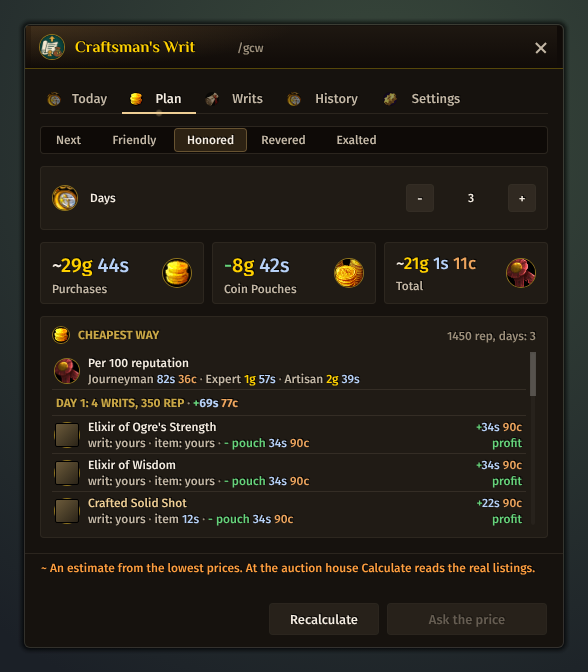
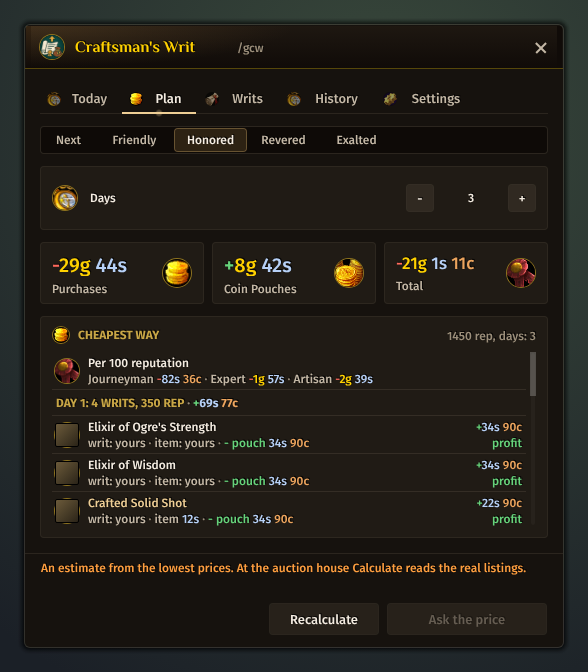
Craftsman's Writ: hand-in cost on Today, red losses, 31 days; no ~ on prices
- Today shows what handing in each held writ costs (item less its pouch), with
  a sum per group and a tooltip line; names are prefetched at login.
- Gains are green +, losses red - with a 'loss' word on plan lines; the plan
  tiles read as money flows.
- Days go up to 31.
- Prices carry no ~ mark in Craftsman's Writ, Crates, Craft Profit and
  Farm Tracker (owner's decision); the notes still say when it is an estimate.

Claude-Session: https://claude.ai/code/session_01HDZ3VZV46FABzVBGzmEtaR

diff --git a/AGENTS.md b/AGENTS.md
@@ -98,7 +98,7 @@ Each one loads `Locales.lua`, `Core.lua`, `Skin.lua`, `UI.lua` (DungeonPrep adds
 - **Gulli-WorthIt**, called Worth It in the game (`/gwi`, `/gwi lead|stop|reset`; `GulliWorthItDB`: the switches in `ns.DEFAULTS` (`better`, `notify`, `showDone`), each change through `ns.SetPref`, `hidden` quest id -> true, `slots` item id -> slots read from the game, `trackerPoint`; `GulliWorthItCharDB`: `guide` (`targets` reward quest ids, `last`, `library` while it leads through the books), `told` quest id -> true, `libGoal` (the library reward quest the player made the goal) and `bookTold` (`b<quest>`/`t<quest>` -> true: a book in the bags, a library reward ready, told once)). Loads `Locales.lua`, `Tips.lua`, `Data.lua`, `Core.lua`, `Skin.lua`, `UI.lua`. It lists the quests whose reward is worth the walk and leads to them; it only reads the game and sets map pins. `Data.lua` is generated by `tools/worthit/build_data.py` from QuestieDB (through `questie.load_forever`); never edit it by hand: `D.kinds` (the kinds of reward in window order: `bag`, `ammo`, `soul`, `prof`, `rest`, each one row of `KINDS` in the generator by item class and subclass, so a new kind of lasting reward is a row there, a `KIND_<KEY>` text, an icon in `ns.KIND_ICON` and, when only one class uses it, an entry in `ns.KIND_CLASS`; a reward no item class marks, such as the Cozy Sleeping Bag (`rest`), is named by its item id in the generator's `ITEM_KINDS` and its kind tests false in `KINDS`; a kind that is no bag goes into `ns.PERKS`: it has no slots, counts as better until it is got and shows `GAIN_<KEY>` and `SHORT_<KEY>` instead of slots), `D.rewards` (`{ item, kind, quest }` from the items' `questRewards`; a reward the data does not link to its quest goes into the generator's `EXTRA` by hand, repeatable quests are left out; `tools/worthit/bagquests.py` compares the list every day (through `tools/health/forever_content.py`) with the bag quests of the BagQuests addon, pmgower/bagquests-forever: an item it offers goes into `EXTRA` with its steps, or into `tools/worthit/bagquests_seen.txt` with the reason), `D.quest` (quest -> English name, level, required level, race mask, class mask, side, giver with area and x, y, who takes it back, the spot of its work; 0, 0 is a place on no map), `D.chain` (reward quest -> its chain, first step first), `D.alt` (a step -> the quests that may stand for it, the choices of an "any one of" earlier quest, one per faction; `ns.ChainOf` puts the character's own in the chain), `D.class` (`{ quest, class mask, items }`: the class quests that give an item, from the Wowhead snapshot `tools/worthit/wowhead-classquests.json` of WoW Forever's class-specific quests (collected on a player's computer; collect it again when Forever adds class quests) joined with QuestieDB for the chain and the places; the generator keeps only `CLASS_ITEM_CLASSES` items, a quest sort of a class or one class alone (so profession quests stay out), level 60 at most, and no raid of `CLOSED_RAIDS`: a raid Forever opens leaves that set; a Forever class quest the snapshot misses goes into the generator's `CLASS_EXTRA` with the reason; a quest's side is that of its starters, or both when trainers of both sides give it), `D.books` (WoW Forever's library books: `{ quest, book item, level, { area, x, y, ... }, taker }`, every quest that a librarian or the mage trainer of `TAKERS` in the generator takes back for exactly one item; the places are the spawns of the book's world object, and `BOOK_PLACES` by hand where the data has none), `D.takers` (who takes a book back, `{ A = { name, area, x, y }, H = ... }`), `D.tiers` (the rewards for so many books handed in: `TIERS` and `TIER_ITEMS` in the generator), `D.kalimdor` and `D.names` (the English name of every item above, from QuestieDB). An item's name goes through `ns.ItemName`: the client's, else `D.names`, else `...` while it loads and `ITEM_ID` once the server refused it (`GET_ITEM_INFO_RECEIVED` with success false, `ns.failed`); `ns.Ask` asks for an item once (again after `ns.ASK_AGAIN` seconds), `ns.Prefetch` asks for every item of the data at login and when the window shows, only an item we asked for repaints the window (`ns.OnItemInfo`), and an item tooltip shows the game's only once the client has the item (`setItemTip` in `UI.lua`). A new place that shows an item goes through these, and a new list of items in the data joins `ns.Prefetch`. The data has no slot counts: `ns.Slots` reads a bag's slots once from its tooltip (`C_TooltipInfo.GetItemByID`, the line that matches the client's `CONTAINER_SLOTS`) and keeps them in `slots`; never a number by hand. `ns.Bags` is what is worn (the smallest bag of each kind, the empty bag slots), `ns.Gain` what a reward adds (over the smallest worn bag of its kind, or the whole bag into an empty slot; nil while the slots are not known, which counts as better). `ns.Rewards` gives one entry per reward quest for this character (side, race and class of every step of the chain, `ns.KIND_CLASS`; the best of the items the quest offers; the same reward behind two quests once, by the branch further on) with its `state` (`ready`, `log`, `take`, `later`, `done`) from the first step of the chain that is not done; `ns.List` groups them (now, later, done) behind the three switches and the hidden ones; `ns.ClassQuests(classId)` gives the class quests of the character's class the same way (another class, picked from the row of class icons on the tab, `ns.CLASSES`, `ns.ClassName`, `ns.ClassIcon`: its quests on the character's side, or on both sides when that class has none there, any race, each in state `other` and group `all`, ordered by the level its chain starts at; nothing of this character's log counts, and it has no Lead, Hide or Lead through all) (`class = true`, every item in `options`, no slots; the **Class quests** tab, `ns.List("class")`, which puts up to `ns.LEVEL_PICKS` open quests within `ns.LEVEL_SPAN` levels of the character on top (`ns.LevelPicks`, group `level`, also for another class) and the rest by level, and where the `better` switch does not apply; `ns.Targets(true)` and `ns.StartGuide(nil, true)` are its **Lead through all**, and `ns.Entry` finds an entry of either list); a class quest's page lists its items (`{ item }` rows of `ns.DetailRows`) and has no steps of what to do; `ns.Potential` is what the open rewards add together (the hub's line, `ns.Summary`). The guide (`ns.StartGuide(quests)` or every open reward that is better, `ns.StopGuide`, `ns.StepGuide` on quest log, bag and zone events): `ns.Stop` is where an entry sends the character now (who gives the step, the spot of its work, who takes it back), `ns.GuideRows` orders the stops (the player's zone nearest first, the same continent, the other one, then places on no map and rewards that wait for a level), the first one gets the map pin (`ns.SetPin`, the world map's waypoint and TomTom's arrow when it is loaded), and the tracker (`GulliWorthItTracker`, an `S.HudPanel` with `S.Mover`, `ns.TrackerItems`, at most `ns.TRACK_MAX` rows) shows them; it shows only while a guide leads, so it has no show switch. One guide leads at a time, whatever module it is of: a module that starts one calls the `stop` of `GulliHUD.guide` when another module owns it and sets `GulliHUD.guide = { owner, stop }` (Worth It and Dungeon Journal's Lead me do; a new guide does the same, with a test). A guide keeps the stop it leads to while that stop is still on its route, so walking nearer to another one never moves the pin back and forth, and a pin it sets says nothing in chat (the tracker shows it); a new guide does the same, with a test. A reward quest handed in is one `S.Toast` and a `Notify`; a reward that opens (a level, an earlier step) is told once per character (`ns.CheckNew`, `told`; the first look only notes what is open; the toast behind `notify`). A new state of an entry gets its icon in `STATE_ICON`, an `ST_` text and its place in `STATE_ORDER`. Under a reward's lines its page says what to do (owner's request of 2026-11-19): `Tips.lua` (`ns.TIPS`: language -> reward quest -> two to four short steps, plain text, NPC, quest and item names in English) is written by hand from the quest texts and the players' comments on Wowhead's WoW Forever pages (`tools/worthit/wowhead-comments.json`, collected on a player's computer since Wowhead refuses servers); `ns.Tips` gives the client's language, else English, and `ns.DetailRows` the page's one scrolling list (a head, the wrapped steps, the chain's head, its quests). A new reward quest gets its steps in every language in the same pull request (the test checks every reward and the same number of lines per language). `python3 tools/worthit/comments.py` names a reward without steps, a chain quest the snapshot lacks and a snapshot older than `COMMENT_DAYS`; `--urls` lists the pages to collect, `--merge <folder>` takes a new collection and prints the new comments to read, `--digest` prints every reward with its top comments. The **Library** tab (owner's request of 2026-11-21): `ns.Books` gives each book's `state` (`done` handed in, `bag` in the bags or the bank (`C_Item.GetItemCount` with the bank), `take`, `later` while the character is `ns.BOOK_EARLY` levels below the book), `ns.Library` the count handed in and each reward's state (`done`, `log`, `ready`, `wait` with the books to hand in `hand` and, less those in the bags, still to find `left`, `later`), `ns.BookList` the list in groups (in the bags, to pick up, later, handed in). Every book is a stop of the library guide (`ns.StartLibrary`, `cdb.guide.library`): `ns.LibraryRows` gives one stop per book to pick up (`ns.BookPlace`: the place in the player's zone, else on the same continent), one per taker for the books in the bags, one per reward ready to take, and `ns.GuideRows` orders them like the reward guide, except that a book above the player's level (`high`, `band` in `ns.RankRow`/`ns.RowBefore`) comes after every book at or below it, the lowest first (owner's request of 2026-11-21). A click on a reward tile of the ladder makes it the goal (`ns.SetLibGoal`, again takes it away); with a goal `ns.LibGoal` gives the books still to find (its books less those handed in and in the bags), and the guide leads only to that many, the first in its own order. Every number of the tab (a tile, the footer, **Lead through the books** through `ns.LeadCount`) counts books still to find, never the guide's hand-in stops. A new rule of that order goes into `ns.RowBefore`, with a case in the library goal test. The tracker shows at most `ns.TRACK_BOOKS` (10, owner's decision) of them in rows of two lines and counts the rest (`TR_MORE`, the second value of `ns.TrackerItems`); a guide of a few rewards keeps `ns.TRACK_MAX`. `ns.CheckBooks` tells a book that came into the bags and a reward that opened, once. A new book or reward comes from the data; a new kind of library stop gets its kind in `ns.BookStop`, a `DO_` text and a case in the library guide test. `tools/worthit/build_data.py <questiedb> --unlinked` lists the Forever bags no quest, drop or vendor gives that are not in `tools/worthit/seen.txt`; `tools/health/forever_content.py` reports them.
 - **Gulli-VendorFlip**, called Vendor Flip in the game (RU «Перекуп»; `/gvf`, `/gvf scan`; `GulliVendorFlipDB`: the settings in `ns.DEFAULTS` (`scan`, `auto`, `sell`, `sound`, `interval` seconds, one of `ns.INTERVALS` (5 seconds to 5 minutes, read through `ns.Interval`), `minGain` copper, at least `ns.MIN_GAIN` (1), `reserve` copper kept aside, `keepFree` bag slots, and the filters: `gear`, `goods`, `q0`..`q4` (`ns.Wanted`: gear is item class 2 or 4, quality 5 and up counts as 4), `maxPrice` copper per line (0 no limit), `minPct` the least gain in percent of the cost (`ns.PriceOK`)), each change through `ns.SetPref`, the two money settings set through `S.MoneyStepper` (gold, silver and copper fields, each with - and + and a typed number), `history` (purchases, newest first, at most `ns.HISTORY_MAX`: `at`, `id`, `n`, `paid`, `value`, `sold`, `who`) and `owed` (character -> item id -> count bought here and not sold yet)). At the auction house it lists lots whose vendor price is above their buyout and buys them by clicks. Its own CurseForge project. `ns.Scan` runs `ns.Interval()` seconds after the last scan ended while the auction house is open (with `scan`): a browse of the whole market cheapest first (`SendBrowseQuery`, paged up to `MAX_PAGES`), `ns.Candidates` keeps the item keys whose lowest price is under the vendor price (the results are sifted `ns.SIFT_STEP` per frame, the pages added from the `_ADDED` event's own list, at most `ns.LOAD_MAX` unknown items asked to load per scan, and a burst of `GET_ITEM_INFO_RECEIVED` and scan steps redraws once through `ns.RefreshSoon`: a full market is tens of thousands of lots, and work over all of them in one frame stops the game), and the best `ns.DetailMax(interval)` of them (fewer at a short interval, so all scans stay under `ns.SEARCHES_PER_MIN` searches a minute) are searched one at a time; an item the filters leave out is never searched, and a filter changed after a scan hides its lines at once (`ns.Shown`) (`SendSearchQuery`) for their lots: `ns.CommodityDeal` (how many units of a commodity gain, within the money, the bags and the stack size) and `ns.ItemDeals` (an item search result is one price with `quantity` items on sale, its `buyoutAmount` the price of one, and `PlaceBid` buys one: so an item line is one item (`n` 1, `left` on sale) and stays after a purchase while more are left, searched again for a new auction id (`ns.Refetch`, `line.stale` meanwhile)); the window shows the auction and vendor price of one and the gain of one click (`ns.LineTip` in the row's tooltip); `ns.Click` never bids on an item line whose price of one is not below the vendor's (`lose`); `ns.FixGroupedHistory` puts right, once, the history entries of a non-stacking item that 1.4.0 logged as the whole lot (`db.groupFix`); each answer goes into `ns.lines` at once (`publish`: the item's lines are replaced, a line found again keeps its table and its `bought`), so a deal can be bought while the scan reads the rest, and what the scan did not find again leaves when it ends; the player's own lots never count. **Scan now** on the Deals page runs `ns.Scan(true)`. The scan waits `QUIET` seconds whenever the player or another addon sends a query (`ns.OthersQuery`, hooks on the `C_AuctionHouse` Send calls; ours are flagged), and for the throttle. `ns.Deals` keeps the lines worth at least `minGain` that the money (less `reserve`) and the free slots (less `keepFree`) allow, best gain first. Buying is `ns.Click(line)` from a hardware click only, never from an event or a timer: a commodity takes two clicks (`StartCommoditiesPurchase`, then `ConfirmCommoditiesPurchase` after `COMMODITY_PRICE_UPDATED`), an item one (`PlaceBid` with its buyout); it never bids, and a quote whose total reaches the vendor value turns the line `lose` and buys nothing. A buy click holds the scan (`ns.Holding`: a purchase runs or waits for its click, lines are queued, or the last click was less than `ns.HOLD` seconds ago): it sends no search or browse page meanwhile (`scan.held`), since one query at a time reaches the auction house. A click on another line while a purchase runs queues it (`ns.queue`, `ns.QueuePos`; a second click takes it out), `ns.Top` gives the queue first, and each queued line is still bought by a click of its own; a click while the throttle is not ready queues the line with `ERR_WAIT`. A purchase is written to the history when the game confirms it (`ns.pending` by auction id, `ns.pendingC` for commodities in order), also when the confirmation comes after the wait gave up. `ns.Log` writes each purchase to `history` and `owed`; at a vendor `ns.OfferSale` offers to sell what is owed (an `S.Toast`, or at once with `sell`), and `ns.Sell` sells only those items, `SELL_STEP` per step, never a protected one; a right-click on a History row keeps an item (`ns.Keep`). `ns.History(period)` (`ns.PERIODS`) adds it up for the History tab. The window stands beside the auction house through the shared side tabs (`order` 30, after Crates and CraftProfit). A new row state gets a word or button in `ns.RowButton` (`UI.lua`), its texts and a test; a new rule for what counts as a deal goes into the plain functions above with a case in `tests/vendorflip/test.lua`, including the random market test (what loses never shows).
 - **Gulli-MyBisList**, called My BiS List in the game (`/gbis`, `/gbis reset`; `GulliMyBisListDB`: the settings in `ns.DEFAULTS` (`tooltip`, `notify`, `real`, `drop`), each change through `ns.SetPref`, and `fav` list ref -> true (the star); `GulliMyBisListCharDB`: `spec` (the spec the player picked), `main` (the list ref the tooltips, notices and the hub follow, `auto` until the player makes one main) and `told` item id -> true). Its own CurseForge project. It only reads the game. `Data.lua` is generated by `tools/bislist/build_data.py` from the wowtbc.gg snapshot `tools/bislist/wowtbc.json`, which `tools/bislist/fetch.py` (the site's `page-data.json` of each spec page) fetches in `data.yml` every week; the site may refuse a server, so `tools/health/forever_content.py` reports a snapshot older than `BIS_DAYS` (collect it on a computer). Never edit `Data.lua` by hand; the lists are wowtbc.gg's work and the window and the docs name it. `D.specs` (28: key `CLASS_SPEC`, class, role, page, simulated), `D.stages` (`L20`..`L50`, `PRE`, `REAL`; the site's level-60 list is left out), `D.slots` (17, rings and trinkets as two slots each), `D.lists[spec][stage][slot]` (at most `KEEP` 5 ids, best first; the generator splits the level lists' rings and trinkets into two slots and takes a two-hander list for `main` when the spec's first pre-raid weapon is one), `D.ench`, `D.src` (`{ kind, what, where }`, kinds `boss` with a Dungeon Journal key, `quest`, `rep`, `craft`, `pvp`, `vendor`, `fish`, `rare`, `zone`, `world`, `other`, `unknown`; a new kind gets an icon in `ns.SRC_ICON`, its texts and a case in `ns.SourceText`), `D.item[id]` (`{ slot code, quality, item level, required level, source index, faction A/H or nil, English name, type }`). A list is named by a ref: `auto` (`ns.MySpec` at `ns.AutoStage`, `REAL` at the top with `real`) or `site:<SPEC>:<STAGE>` (`ns.Ref`, `ns.ParseRef`); `ns.Resolve` drops the other faction's items (`ns.Filter`). `ns.SlotRows` compares a list with what is worn and carried (`C_Item.GetItemCount` with the bank): `bis`, `bag` (a better one carried), `rank`, `miss`, `none`, `covered` (the off hand while the list's first weapon is a two-hander; not counted), with a worn ring or trinket counted in the slot where it ranks best (`ns.PAIR`), and `top`/`topAt` (the list's first item: `worn`, `bag` (bags or bank, `ns.Carried`) or `miss`); a slot button shows that item with a dot in `ns.AT_COLOR` and the word `AT_<WHERE>` in its tooltip (owner's decision of 2026-11-21), and the card lists the slot's items, then what is worn under a line when it is not one of them (`ns.CardItems`, `sep`). `ns.Progress` counts the slots whose first item is worn. **My target** (`ns.SetTarget`) puts an item first; on a site list it goes into the own list copied from it (`ns.OwnFor`: made the first time, then main and shown); `ns.AddTo` adds through the same copy. The adder's search takes an id or an item link too (`ns.ParseId`, a Shift-click while it has the focus, `ns.OnLink`) and offers that item whatever list it is on. With `drop`, a wanted item (`ns.Wanted`: on the main list, better than what is worn there, not carried) in the loot window (`LOOT_READY`, also master loot) or a roll (`START_LOOT_ROLL`) plays a sound and shows a toast once a minute per item (`ns.CheckDrop`). The star (`ns.SetFav`) and the main list (`ns.SetMain`) are apart (owner's decision of 2026-11-21). Own lists (`db.own[n]`, ref `own:<n>`, for the whole account, in the hub's Export / import with the rest of the saved variables): `ns.CopyList` copies a site or own list (`from` keeps the site ref, `snap` its first item per slot), `ns.OwnAdd`/`ns.OwnRemove`/`ns.RenameOwn` edit it (the window has no arrows, owner's decision; `ns.OwnMove` stays for the order) (at most `ns.OWN_MAX` a slot; a copy takes `ns.COPY_MAX`), `ns.DeleteOwn` returns what `ns.RestoreOwn` needs for Undo, `ns.SiteNews` names the slots whose first site item changed since (`ns.AckNews`). An own list is never filtered by faction. Its search is `ns.Candidates`: items of `D.item` that fit the slot for the class (`ns.Fits`: `ns.ARMOR`, `ns.WEAPON`, `ns.DUAL`; a new item kind gets its rule there and a case in the test), the spec's own site items first, then the class's, then by item level. `ns.DetectSpec`: the retail specialization (`ns.SPEC_ID`), else the talent tab with most points (`ns.TABS`), else the first; the player's pick wins. The tooltip line (`ns.TipLines`, group `note`) and the notice of a better item in the bags (`ns.CheckBags`, items up to `ns.TOP`, once per item, never on the first look after login) follow the main list. A new spec or stage comes from the site through the generator, with its `SPEC_`/`STAGE_` texts in every language and a case in `tests/mybislist/test.lua`.
-- **Gulli-CraftsmansWrit**, called Craftsman's Writ in the game, Writ Runner until 1.0.0 (`/gcw`, `/gwr` kept for 1.0.0, `/gcw lead|stop|plan|pouches`; `GulliCraftsmansWritDB`: the settings in `ns.DEFAULTS` (`bank`, `sealed`, `pouch`, `live`, `auto`, `tooltip`, `goal` (0 the next standing, else a reaction index of `ns.GOALS`), `days` 1 to `ns.DAYS_MAX`), each change through `ns.SetPref`, which marks a shown plan outdated (`ns.stale`), `history` (turn-ins, newest first, at most `ns.HISTORY_MAX`: `at`, `writ`, `rep`, `paid`, `pouch`, `who`), `lots` (character -> item -> `{ n, copper }` bought here and not used yet), `spots` (quest -> a customer the data lacks: `map`, `x`, `y`, `name`, `src` `marker` or `turnin`), `chars` (character -> `side`, `class`, `writs`, `items` with the bank, for the tooltips), `pouches` (rank -> `n`, `total`, `min`, `max` of the Coin Pouches opened), `realm`, `trackerPoint`; `GulliCraftsmansWritCharDB`: `mult` (the Diplomat bonus read from a turn-in), `pouchDay`). Its own CurseForge project. The Craftsman's Writs of WoW Forever: 150 writs in three ranks (`ns.RANKS`, reputation `ns.REP`), each a daily quest that asks for one crafted item and gives reputation with the trade camp (`ns.FACTION` by side, standings `ns.REACTION_AT`) and a Coin Pouch (`ns.POUCH`; what it holds is learned: `ns.PouchAvg` weighs the players' average `ns.POUCH_AVG` as `ns.POUCH_PRIOR` pouches; `ns.PouchCheck` pairs money that came in while a loot window and no vendor was open with a pouch that left the bags within `POUCH_WAIT` seconds). Each writ can be handed in once a day (`C_QuestLog.IsQuestFlaggedCompleted`). `Data.lua` (`ns.WRITS`: writ item -> quest, rank, profession, item, count, side, customer npc, uiMapID, x, y; `ns.NPCS`; `ns.SEALED`: Sealed Writ item -> rank; `ns.KALIMDOR`) is generated by `tools/craftsmanswrit/build_data.py` from AllTheThings' WoW Forever data (`craftsman's writs.lua`, read as text; its map constants go to uiMapIDs through `MAPS` there, a new zone gets its id there) in `data.yml`; never edit it by hand. A customer the data lacks is learned from the quest's waypoint (`ns.LearnFromMarker`) and at the turn-in (`ns.LearnFromTurnIn`, never a secret name). `ns.Plan(input)` is plain Lua: every writ type gets the cost of its 1st, 2nd, ... copy (at most one a day, `days`, one less when it was handed in today; the writ and its item from the bags and the bank first, then the k-th cheapest lot through `price(id, n, skip)`), less its pouch; a Sealed Writ is a type of its own at its envelope plus the mean item price of its rank, marked `estimate`; a knapsack in steps of 25 reputation picks the copies that reach the goal for the least gold (a copy that pays more than it costs is always taken), copy k goes to day k. `ns.ShoppingList`, `ns.Ways` (cost per 100 reputation by rank) and the window read it; the plan shows every pouch (`ns.LineParts`, `ns.CostText`, the tiles Purchases, Coin Pouches, Total). At the auction house with `live`, Calculate reads the lots of what the plan buys (`ns.ScanLots`, `COMMODITY_SEARCH_RESULTS_UPDATED`/`ITEM_SEARCH_RESULTS_UPDATED`) and plans again, up to `LIVE_ROUNDS` times. Buying is `ns.BuyClick` from the **Buy** click only: a commodity in two clicks (`StartCommoditiesPurchase`, `ConfirmCommoditiesPurchase`), an item that is no commodity in two (`SendSearchQuery`, then `ns.ItemQuote` and `PlaceBid`); never from an event or a timer. The window (`UI.lua`, narrow, tabs Today, Plan, Writs, History, Settings) opens beside the auction house through the side tabs (`order` 15) when the plan buys something or a writ lacks its item (`ns.WorkAtAH`, behind `auto`) and closes with it (`S.ClosesWith`). `ns.TurnedIn` (`QUEST_TURNED_IN`) logs a turn-in with what `ns.TakeLots` says it cost and keeps the reputation the game reports after it (`ns.NoteRep`, the Diplomat bonus in `ns.Mult`). The guide (`ns.StartGuide`, **Lead me** on the Today tab) leads to the customers of the writs that are ready (`ns.Stops`, one per customer, `ns.RankStops`: the same continent first, the nearest by world distance), pins the first (`ns.SetPin`; it keeps the stop it leads to while it is still among the nearest) and shows the tracker (`GulliCraftsmansWritTracker`, `S.HudPanel` with `S.Mover`, the hub's `frames`); it follows the one-guide rule of `GulliHUD.guide`. `ns.TipLines` gives the Gulli block lines of a writ, a Sealed Writ, a Coin Pouch and an item a writ asks for (`tooltip`). A new rule of the planner gets a case in `tests/craftsmanswrit/test.lua`; the route with flights and the recipe marks are planned next (#518).
+- **Gulli-CraftsmansWrit**, called Craftsman's Writ in the game, Writ Runner until 1.0.0 (`/gcw`, `/gwr` kept for 1.0.0, `/gcw lead|stop|plan|pouches`; `GulliCraftsmansWritDB`: the settings in `ns.DEFAULTS` (`bank`, `sealed`, `pouch`, `live`, `auto`, `tooltip`, `goal` (0 the next standing, else a reaction index of `ns.GOALS`), `days` 1 to `ns.DAYS_MAX`, 31), each change through `ns.SetPref`, which marks a shown plan outdated (`ns.stale`), `history` (turn-ins, newest first, at most `ns.HISTORY_MAX`: `at`, `writ`, `rep`, `paid`, `pouch`, `who`), `lots` (character -> item -> `{ n, copper }` bought here and not used yet), `spots` (quest -> a customer the data lacks: `map`, `x`, `y`, `name`, `src` `marker` or `turnin`), `chars` (character -> `side`, `class`, `writs`, `items` with the bank, for the tooltips), `pouches` (rank -> `n`, `total`, `min`, `max` of the Coin Pouches opened), `realm`, `trackerPoint`; `GulliCraftsmansWritCharDB`: `mult` (the Diplomat bonus read from a turn-in), `pouchDay`). Its own CurseForge project. The Craftsman's Writs of WoW Forever: 150 writs in three ranks (`ns.RANKS`, reputation `ns.REP`), each a daily quest that asks for one crafted item and gives reputation with the trade camp (`ns.FACTION` by side, standings `ns.REACTION_AT`) and a Coin Pouch (`ns.POUCH`; what it holds is learned: `ns.PouchAvg` weighs the players' average `ns.POUCH_AVG` as `ns.POUCH_PRIOR` pouches; `ns.PouchCheck` pairs money that came in while a loot window and no vendor was open with a pouch that left the bags within `POUCH_WAIT` seconds). Each writ can be handed in once a day (`C_QuestLog.IsQuestFlaggedCompleted`). `Data.lua` (`ns.WRITS`: writ item -> quest, rank, profession, item, count, side, customer npc, uiMapID, x, y; `ns.NPCS`; `ns.SEALED`: Sealed Writ item -> rank; `ns.KALIMDOR`) is generated by `tools/craftsmanswrit/build_data.py` from AllTheThings' WoW Forever data (`craftsman's writs.lua`, read as text; its map constants go to uiMapIDs through `MAPS` there, a new zone gets its id there) in `data.yml`; never edit it by hand. A customer the data lacks is learned from the quest's waypoint (`ns.LearnFromMarker`) and at the turn-in (`ns.LearnFromTurnIn`, never a secret name). `ns.Plan(input)` is plain Lua: every writ type gets the cost of its 1st, 2nd, ... copy (at most one a day, `days`, one less when it was handed in today; the writ and its item from the bags and the bank first, then the k-th cheapest lot through `price(id, n, skip)`), less its pouch; a Sealed Writ is a type of its own at its envelope plus the mean item price of its rank, marked `estimate`; a knapsack in steps of 25 reputation picks the copies that reach the goal for the least gold (a copy that pays more than it costs is always taken), copy k goes to day k. `ns.ShoppingList`, `ns.Ways` (cost per 100 reputation by rank) and the window read it; the plan shows every pouch (`ns.LineParts`, `ns.CostText`, the tiles Purchases, Coin Pouches, Total). At the auction house with `live`, Calculate reads the lots of what the plan buys (`ns.ScanLots`, `COMMODITY_SEARCH_RESULTS_UPDATED`/`ITEM_SEARCH_RESULTS_UPDATED`) and plans again, up to `LIVE_ROUNDS` times. Buying is `ns.BuyClick` from the **Buy** click only: a commodity in two clicks (`StartCommoditiesPurchase`, `ConfirmCommoditiesPurchase`), an item that is no commodity in two (`SendSearchQuery`, then `ns.ItemQuote` and `PlaceBid`); never from an event or a timer. The window (`UI.lua`, narrow, tabs Today, Plan, Writs, History, Settings) opens beside the auction house through the side tabs (`order` 15) when the plan buys something or a writ lacks its item (`ns.WorkAtAH`, behind `auto`) and closes with it (`S.ClosesWith`). `ns.TurnedIn` (`QUEST_TURNED_IN`) logs a turn-in with what `ns.TakeLots` says it cost and keeps the reputation the game reports after it (`ns.NoteRep`, the Diplomat bonus in `ns.Mult`). The guide (`ns.StartGuide`, **Lead me** on the Today tab) leads to the customers of the writs that are ready (`ns.Stops`, one per customer, `ns.RankStops`: the same continent first, the nearest by world distance), pins the first (`ns.SetPin`; it keeps the stop it leads to while it is still among the nearest) and shows the tracker (`GulliCraftsmansWritTracker`, `S.HudPanel` with `S.Mover`, the hub's `frames`); it follows the one-guide rule of `GulliHUD.guide`. `ns.TipLines` gives the Gulli block lines of a writ, a Sealed Writ, a Coin Pouch and an item a writ asks for (`tooltip`). The Today tab shows what handing in each held writ costs from here (`ns.CloseCost`: the item still to buy, bags and bank counted as owned, less the pouch; a group's head adds them up), and the writ's tooltip splits it (`TIP_CLOSE`). `ns.CostText` writes a gain green with `+` and a loss red with `-`, and a plan line under it says **profit** or **loss**. `ns.Prefetch` asks for every writ and item name of the side at login and when the window shows, so the lists show names, not `...`. A new rule of the planner gets a case in `tests/craftsmanswrit/test.lua`; the route with flights and the recipe marks are planned next (#518).
 - A module that acts on its own (sells, takes, rolls, accepts, declines) has a switch for each action, in its window and its saved variables, with a test that the switch stops it. Turning a whole module off is the hub's job (`ns.Switch`, through the module's `pause`).
 
 ## Task workflow
@@ -135,7 +135,7 @@ Each one loads `Locales.lua`, `Core.lua`, `Skin.lua`, `UI.lua` (DungeonPrep adds
 - Every window follows the same layout (Gulli UI 2): `S.Window` (header with the module icon, the short title and the slash command), then the body as a column of `S.Card`s placed with `S.Stack`, with `S.PAD`/`S.GAP`/`S.INSET` as the only spacings. Settings are rows in an `S.SettingsCard` (label left, switch or control right); a window's actions go into `S.Footer`, the main one right and `S.Primary` (or `S.Danger` when it removes something), with the status line on its left. Lists use `S.List` with hairline rows (`list.heightOf(item)` gives a row its own height), empty states `S.Empty`, a warning over the body `S.Banner` (yellow, with a cross), numbers `S.Stat`/`S.StatRow`.
 - An on/off setting is always a switch: `S.SwitchRow` (or a row of `S.SettingsCard` with `get`/`set`), and `S.SwitchLabel` for one outside a card (a list filter). Never a button that cycles Yes/No or two texts of one boolean; a cycling button is only for a choice of three or more values. Check boxes (`S.Check`) only pick entries of a list (items to remove, dungeons to watch). CI fails on a `{ true, false }` value list or a `L.YES`/`L.NO` text in a `UI.lua`.
 - Window sizes fit the hub: a module window is `S.NARROW_W` (540, settings and short lists) or `S.WIDE_W` (832, lists with columns, graphs) wide and at most `S.DOCK_H` (624) high. Inside the hub it gets the full `S.DOCK_H` height, so lists should reach the bottom of the body and the footer stays at the bottom. A page whose content can be taller than the window (a settings page: long texts take two lines in some languages) is an `S.ScrollPage`, built into `page.inner` and closed with `page:SetContent(height)`; `tools/preview` reports a text that runs out of the window as `outside`. A window that stands alone is scaled and raised over the other windows each time it shows (the one opened or clicked last is whole on top, `SetToplevel`); `S.Window` keeps that in front of a module's own `SetScript("OnShow")`, so a window never sets its scale, strata or frame level itself. Change a window's height with `S.FitWindow` or `S.SetWindowHeight`, never `SetHeight` on the window, so a docked window keeps the hub's height. Windows grow with the screen (Gulli Hearth): `S.BaseScale()` is 1 on a 768 unit high screen and at most 1.6, `S.UIScale()` multiplies it by the hub's -/+ scale, and `S.Window` applies `S.FitScale` on each show and on `UI_SCALE_CHANGED`/`DISPLAY_SIZE_CHANGED` (`S.TrackScale`); a docked window has scale 1, since the hub (`ns.HubScale`, 90% of the screen height) is scaled already. Scale a frame only through `S.ApplyScale`, which never touches a protected frame in combat. Notices take `S.BaseScale()`. The toolkit test checks that every module has `window`, `ns.Window` and one of the two widths.
-- Colours that carry meaning come from `Skin.lua`: a level gets `S.LevelColor(level)` (the quest log colours: grey, green, yellow, orange, red), an item name `S.QualityHex(quality)`, a state `S.GOOD`/`S.WARN`/`S.BAD` (red for what hurts when it waits, green for what is ready or enough). Money on screen goes through `S.MoneyText(copper, short)` (gold, silver and copper each in its coin colour; `short` drops the copper for tiles); a module's own plain `ns.Money` is only for chat. Money on a coloured fill (a Primary or Danger button) is `S.MoneyIcons(copper, short)` instead: numbers in the button's text colour with the game's coin pictures, since the coin colours melt into the fill. Money as text is `S.MoneyText(copper)` (gold, silver and copper in their coin colours `S.GOLD`/`S.SILVER`/`S.COPPER`). A stat line of several parts (a run: time, XP, money, kills) colours each part (`S.TIME`, `S.XP`, `S.MoneyText`, `S.KILLS`) and joins them with `S.DOT`. Never a module's own colour table for these.
+- Colours that carry meaning come from `Skin.lua`: a level gets `S.LevelColor(level)` (the quest log colours: grey, green, yellow, orange, red), an item name `S.QualityHex(quality)`, a state `S.GOOD`/`S.WARN`/`S.BAD` (red for what hurts when it waits, green for what is ready or enough). Money on screen goes through `S.MoneyText(copper, short)` (gold, silver and copper each in its coin colour; `short` drops the copper for tiles); a module's own plain `ns.Money` is only for chat. Money on a coloured fill (a Primary or Danger button) is `S.MoneyIcons(copper, short)` instead: numbers in the button's text colour with the game's coin pictures, since the coin colours melt into the fill. Money as text is `S.MoneyText(copper)` (gold, silver and copper in their coin colours `S.GOLD`/`S.SILVER`/`S.COPPER`). A price never carries a `~` mark, also when it is an estimate (owner's decision of 2026-11-21): a note in the window says so instead. A stat line of several parts (a run: time, XP, money, kills) colours each part (`S.TIME`, `S.XP`, `S.MoneyText`, `S.KILLS`) and joins them with `S.DOT`. Never a module's own colour table for these.
 - Game icons: one icon per settings row, stat tile or list row, from the game's `Interface\Icons`, at the left (`icon =` on the row, `S.IconBox`). One icon keeps one meaning in every module: `INV_Misc_PocketWatch_01` is time, `Spell_Nature_TimeStop` a limit or repeat, `INV_Misc_Coin_02` selling, `Trade_BlackSmithing` repairs, `Interface\Minimap\Tracking\Auctioneer` the auction house and `Interface\Minimap\Tracking\Banker` the bank (the game's own map pictures for them, not an Icons path). Spells and items show their own icon from the game by id (`GetSpellTexture`, `GetItemIcon`), never a fixed path. A module's switches that the hub also shows keep their icons in `ns.OPT_ICON` (key -> path), passed as `icon` in `Register` options. Tabs, filters and pick-one choices (a kind, a role, a roll, a profession) get an icon too: tabs through the `icons` list of `S.Tabs` (the shared meanings are in `S.TAB`: settings, rules, recent, list, group, ...; an icon-only part has an empty label and a `tip`), a button through `S.SetButtonIcon`, a choice that shows what it acts on through `S.IconTile` (the item's own icon by id, a count in the corner, greyed out when there is nothing), roles through `S.ROLE_ICON`, and an icon inside a line of text through `S.IconTag`. Main actions (the footer's Primary or Danger button, OK, Send, Buy) and titles stay text only. A new shared meaning goes into `S.TAB` in `Gulli-Toolkit/Skin.lua`.
 - Everything on the game screen outside a window follows Gulli HUD (the `HUD` part of `Skin.lua`): game icons through `S.HudIcon` (state ring: `need` red and pulsing, `soon` yellow, `ok` green; key, count and time on the icon), a caption beside one through `S.HudCaption`, counters through `S.Chip`, small lists through `S.HudList`, and panels through `S.HudPanel`. A notice (a find, full bags, a request, something ready) is `S.Toast{ key, icon, title, text, kind, buttons, seconds }`, which stacks with the notices of every module; only a card with a secure button keeps its own `S.ToastFrame` (MobFinder, with the button on UIParent so the card can show in combat). A frame the player places gets `S.Mover` (built with the frame, never a drag of its own on the frame), a `move(on)` and a `frames` entry in its `Register`. Its show switch, its place and its reset live only there: a module's window and its hub `options` have no show switch, no move or unlock button and no position reset for it (owner's decision). There is no Lock switch in any module (owner's decision): the hub's Unlock mode (**Unlock frames** in the hub's header, `/gulli unlock`, `GulliToolkit.Unlock()` for a module's own button or slash command) shows every frame with its mover over a grid, the panel on the left lists them with their show switches, a click selects one (the arrow keys move it), and the mode ends with **Save and lock** or **Cancel** (every place and switch as before, `S.MoversRestore`); a fight ends it with Save, and it never starts in a fight (`ns.SetMoving` refuses). The hub window steps aside while the mode runs and comes back after Save or Cancel (`ns.hubAside`). A module's `move(on)` that would show, hide or set attributes on a secure frame returns early in combat lockdown, with a test. In the mode the panel lists each frame with its module's icon, and a frame switched off stays placeable but darkened and marked hidden (`m:SetOff`). Every frame on the screen starts hidden: a new frame's show setting defaults to off, and a module whose frame showed before hides it once in older saves behind a `hudHidden` flag that a reset keeps. Notices (`S.Toast`) have one place for all modules, `GulliToolkitDB.toastAt`, set in the same mode. Never draw arrows or symbols the game font lacks (`→`, `≈`, `■`): use `»`, `~` or textures.
 - A module opens the world map only through its `ns.OpenMap(id)` (CraftProfit, DungeonPrep, Worth It): out of combat, through `C_Map.OpenWorldMap`, which lets the game open it from its own `WORLD_MAP_OPEN` event, and the global `OpenWorldMap` only on a client without it. An addon's own call of `OpenWorldMap` or `WorldMapFrame:SetMapID` taints the map's pins, and the game then blocks their `SetPassThroughButtons` (`ADDON_ACTION_BLOCKED`). Setting a waypoint (`C_Map.SetUserWaypoint`, `C_SuperTrack`) is fine from anywhere. The fake clients give `C_Map.OpenWorldMap`, and the tests check that the global is not called while it exists.

diff --git a/docs/craftsmanswrit/README.md b/docs/craftsmanswrit/README.md
@@ -18,11 +18,11 @@ In WoW Forever a Craftsman's Writ is a daily quest: bring one crafted item to a 
 
 ## Features
 
-- **Today.** Your standing with the camp and how much is left to the next one, when the day resets, and every writ you carry: ready to hand in, still missing its item, in the bank or already handed in today. Sealed Writs in your bags are listed too.
-- **A plan for any number of days.** Pick the standing you want (the next one, Friendly, Honored, Revered or Exalted) and the days you have. Craftsman's Writ picks the writs that get you there for the least gold. Each writ can be used once a day, so more days let it use the cheap writs again. The plan is shown day by day.
-- **Coin Pouches in plain sight.** Every turn-in gives a Coin Pouch with gold in it. The plan shows it on every line and on top: **Purchases**, minus **Coin Pouches**, equals **Total**. A writ that costs less than its pouch is marked **profit**, and the plan always takes it. Craftsman's Writ learns what your pouches really hold when you open them.
+- **Today.** Your standing with the camp and how much is left to the next one, when the day resets, and every writ you carry: ready to hand in, still missing its item, in the bank or already handed in today. Each one shows what handing it in costs from here: the item you still need at the auction, less its Coin Pouch. Sealed Writs in your bags are listed too.
+- **A plan for up to 31 days.** Pick the standing you want (the next one, Friendly, Honored, Revered or Exalted) and the days you have. Craftsman's Writ picks the writs that get you there for the least gold. Each writ can be used once a day, so more days let it use the cheap writs again. The plan is shown day by day.
+- **Coin Pouches in plain sight.** Every turn-in gives a Coin Pouch with gold in it. The plan shows it on every line and on top: **Purchases**, minus **Coin Pouches**, equals **Total**. A writ that costs less than its pouch is marked **profit** in green, and the plan always takes it; one that costs more shows its **loss** in red. Craftsman's Writ learns what your pouches really hold when you open them.
 - **Bags and bank first.** Writs and items you already have cost nothing. The bank counts too (switch it off if you like).
-- **Sealed Writs.** A Sealed Writ holds a random writ of its rank. The plan can count it at the mean price of that rank's items, marked with `~`.
+- **Sealed Writs.** A Sealed Writ holds a random writ of its rank. The plan can count it at the mean price of that rank's items.
 - **Real auction prices.** Prices come from your price addon (Auctionator and others). At the auction house, **Calculate** reads the real listings, so buying many also counts the dearer ones.
 - **Buy with clicks.** At the auction house the window opens beside the auction window. The **Buy** button buys the plan line by line: the first press asks the price, the second buys.
 - **Lead me.** With writs ready, **Lead me** puts a map pin on the nearest customer, and a small tracker lists the others. Customers the data does not know yet are learned when you take or hand in their writ.

diff --git a/docs/craftprofit/README.md b/docs/craftprofit/README.md
@@ -72,7 +72,7 @@ For auction prices, also install one of these and scan the auction once: **Aucti
 <details>
 <summary><b>Do I need Auctionator?</b></summary>
 
-No. Any of the price addons above works. Without any of them, the route still goes on: what only the auction sells (ore, bars, cloth) gets a guessed price, marked "price guessed" with a `~`, from an old price or five times what a vendor pays for it. A banner over the route says so, only levelling routes show (a profit from guessed prices would mislead), and the auction switches in Settings are grey and off. Once you install a price addon, they come back as you left them. The real price is the one you see at the auction.
+No. Any of the price addons above works. Without any of them, the route still goes on: what only the auction sells (ore, bars, cloth) gets a guessed price, marked "price guessed", from an old price or five times what a vendor pays for it. A banner over the route says so, only levelling routes show (a profit from guessed prices would mislead), and the auction switches in Settings are grey and off. Once you install a price addon, they come back as you left them. The real price is the one you see at the auction.
 </details>
 
 <details>
